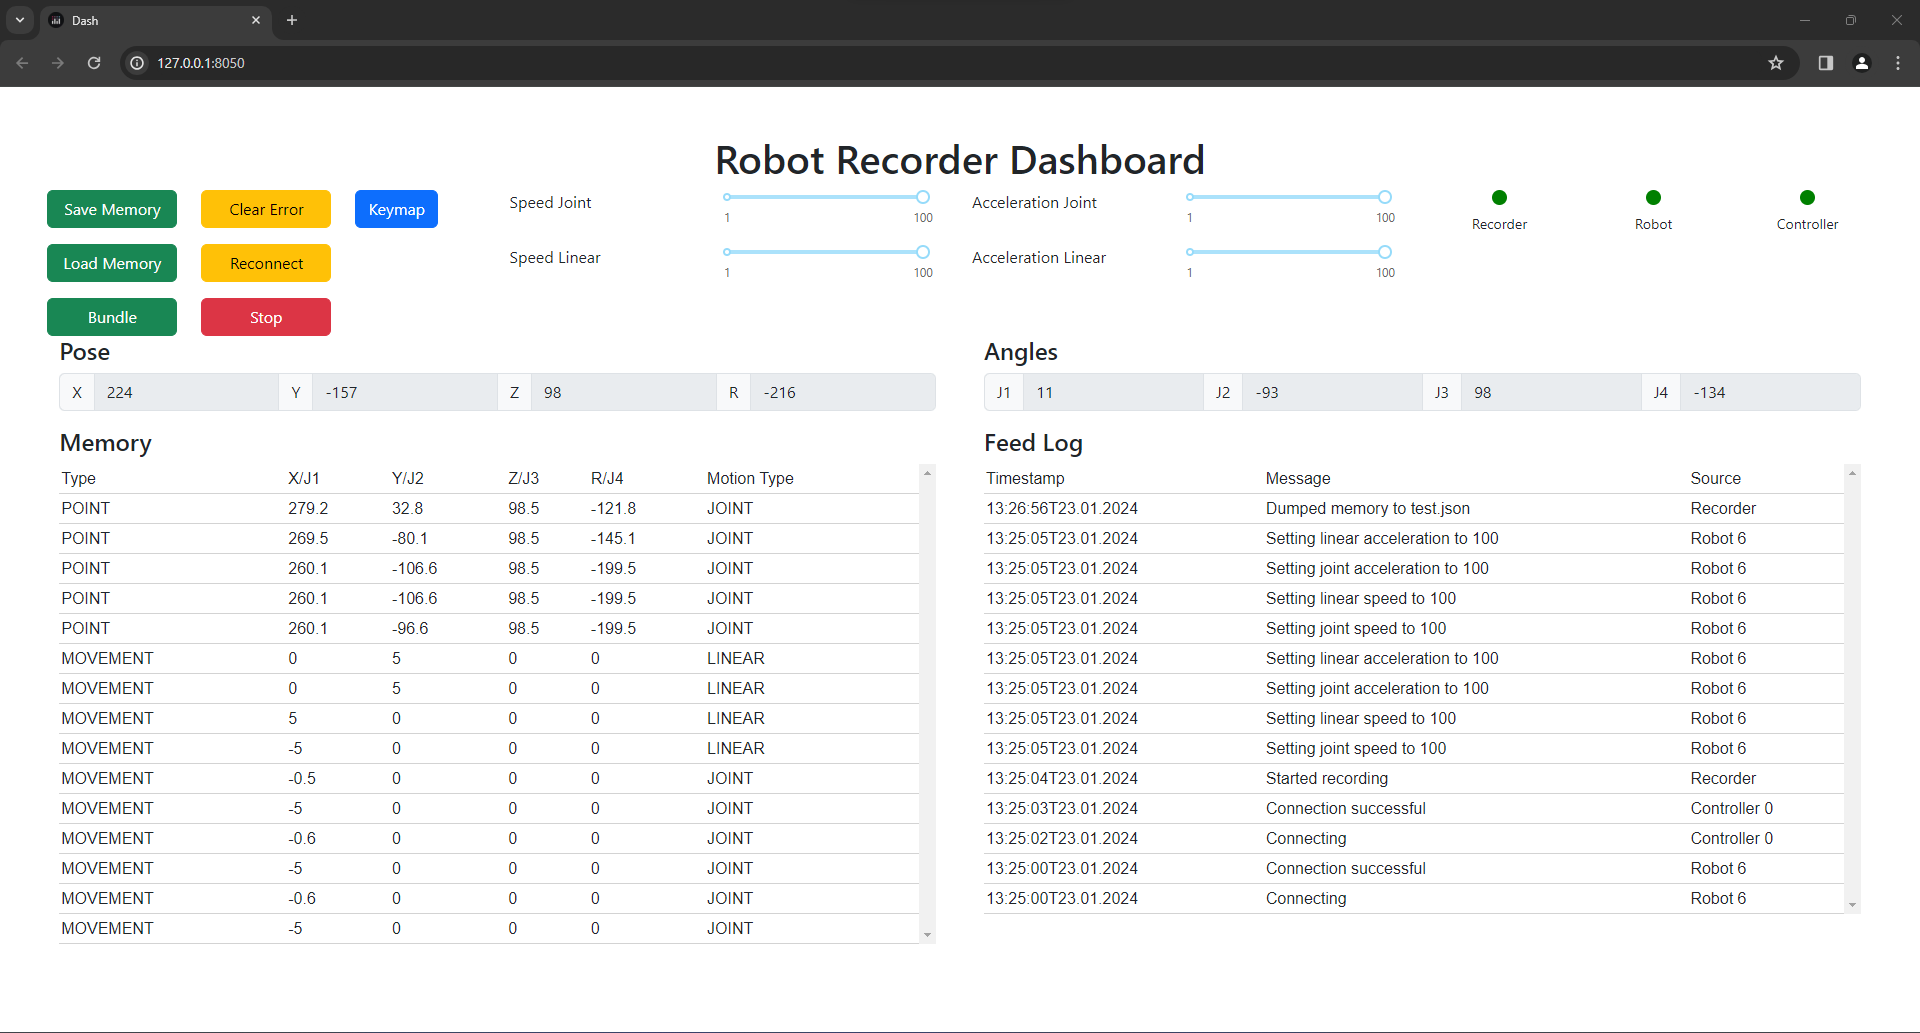
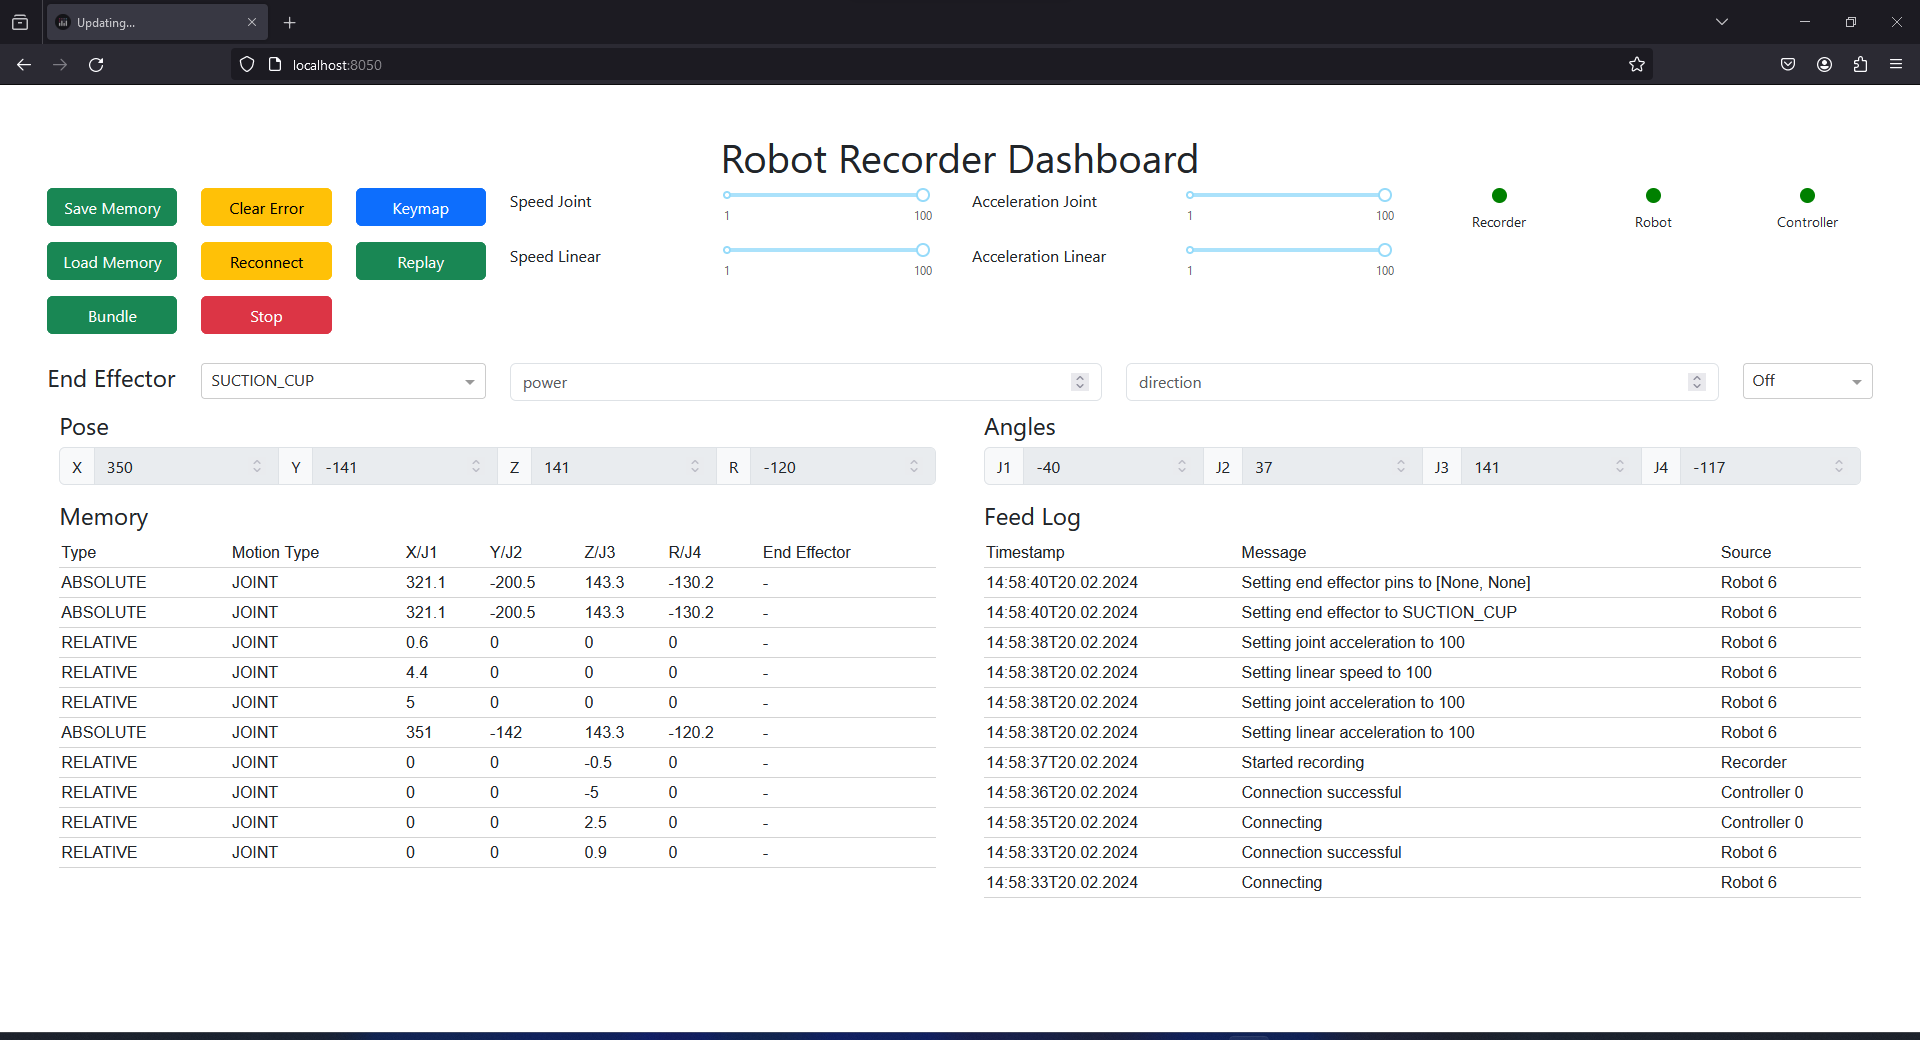
less ugly ui

diff --git a/src/dashboard.py b/src/dashboard.py
@@ -211,10 +211,11 @@ class Dashboard:
                 ),
                 dbc.Row(
                     [
+                        dbc.Col(html.H4("End Effector"), width=1),
                         dbc.Col(self.end_effector_dropdown(), width=2),
                         dbc.Col(
                             self.end_effector_pins(),
-                            width=9,
+                            width=8,
                             id="end-effector-pins-col",
                         ),
                         dbc.Col(
@@ -222,7 +223,8 @@ class Dashboard:
                             width=1,
                             id="end-effector-state-col",
                         ),
-                    ]
+                    ],
+                    style={"margin-top": "3vh", "margin-bottom": "1vh"},
                 ),
                 dbc.Row(
                     [
@@ -662,27 +664,21 @@ class Dashboard:
         ]
 
     @staticmethod
-    def end_effector_dropdown() -> dbc.Container:
+    def end_effector_dropdown() -> dcc.Dropdown:
         """
         Returns the end effector dropdown for the dashboard.
         """
-        return dbc.Container(
-            [
-                html.H4("End Effector"),
-                dcc.Dropdown(
-                    id="end-effector-dropdown",
-                    options=[
-                        {
-                            "label": effector.name,
-                            "value": effector.value,
-                        }
-                        for effector in EndEffectorType
-                    ],
-                    value=0,
-                    clearable=False,
-                ),
+        return dcc.Dropdown(
+            id="end-effector-dropdown",
+            options=[
+                {
+                    "label": effector.name,
+                    "value": effector.value,
+                }
+                for effector in EndEffectorType
             ],
-            fluid=True,
+            value=0,
+            clearable=False,
         )
 
     def end_effector_dropdown_callback(self):
